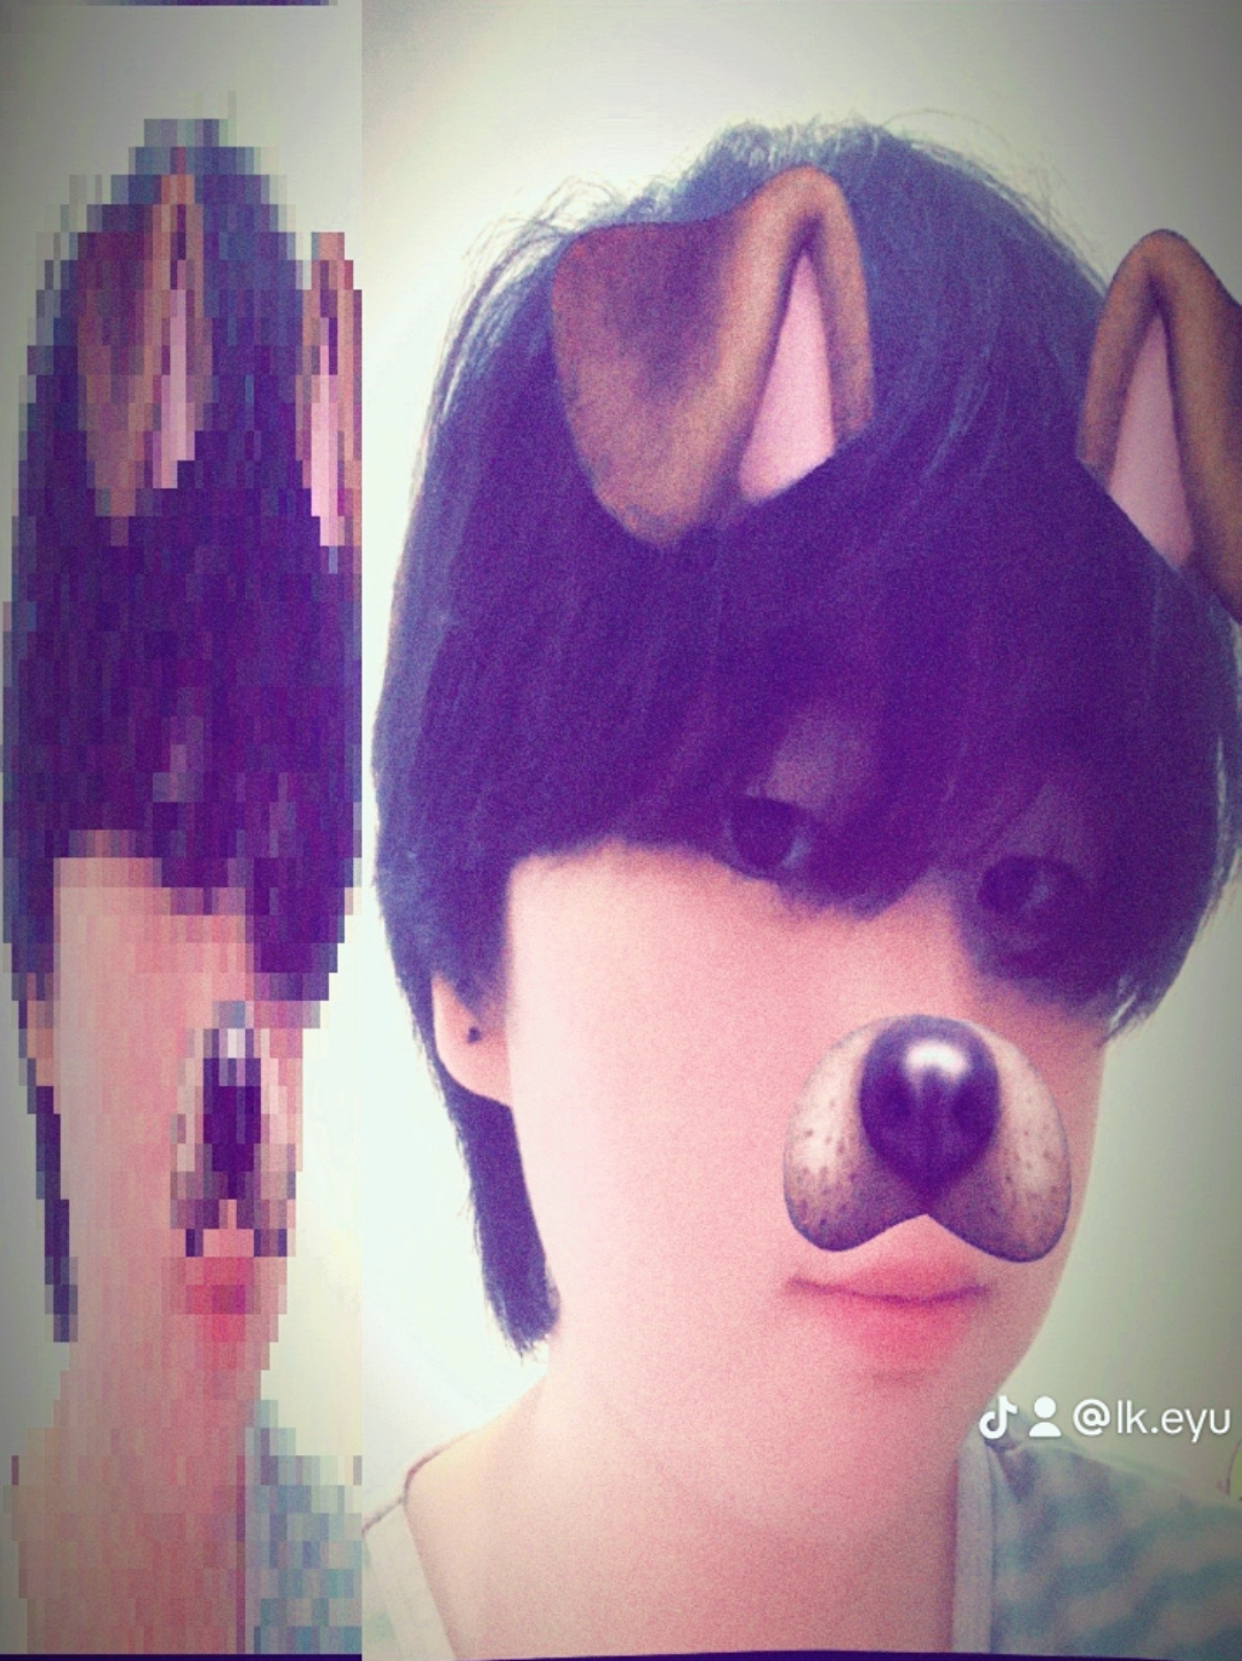
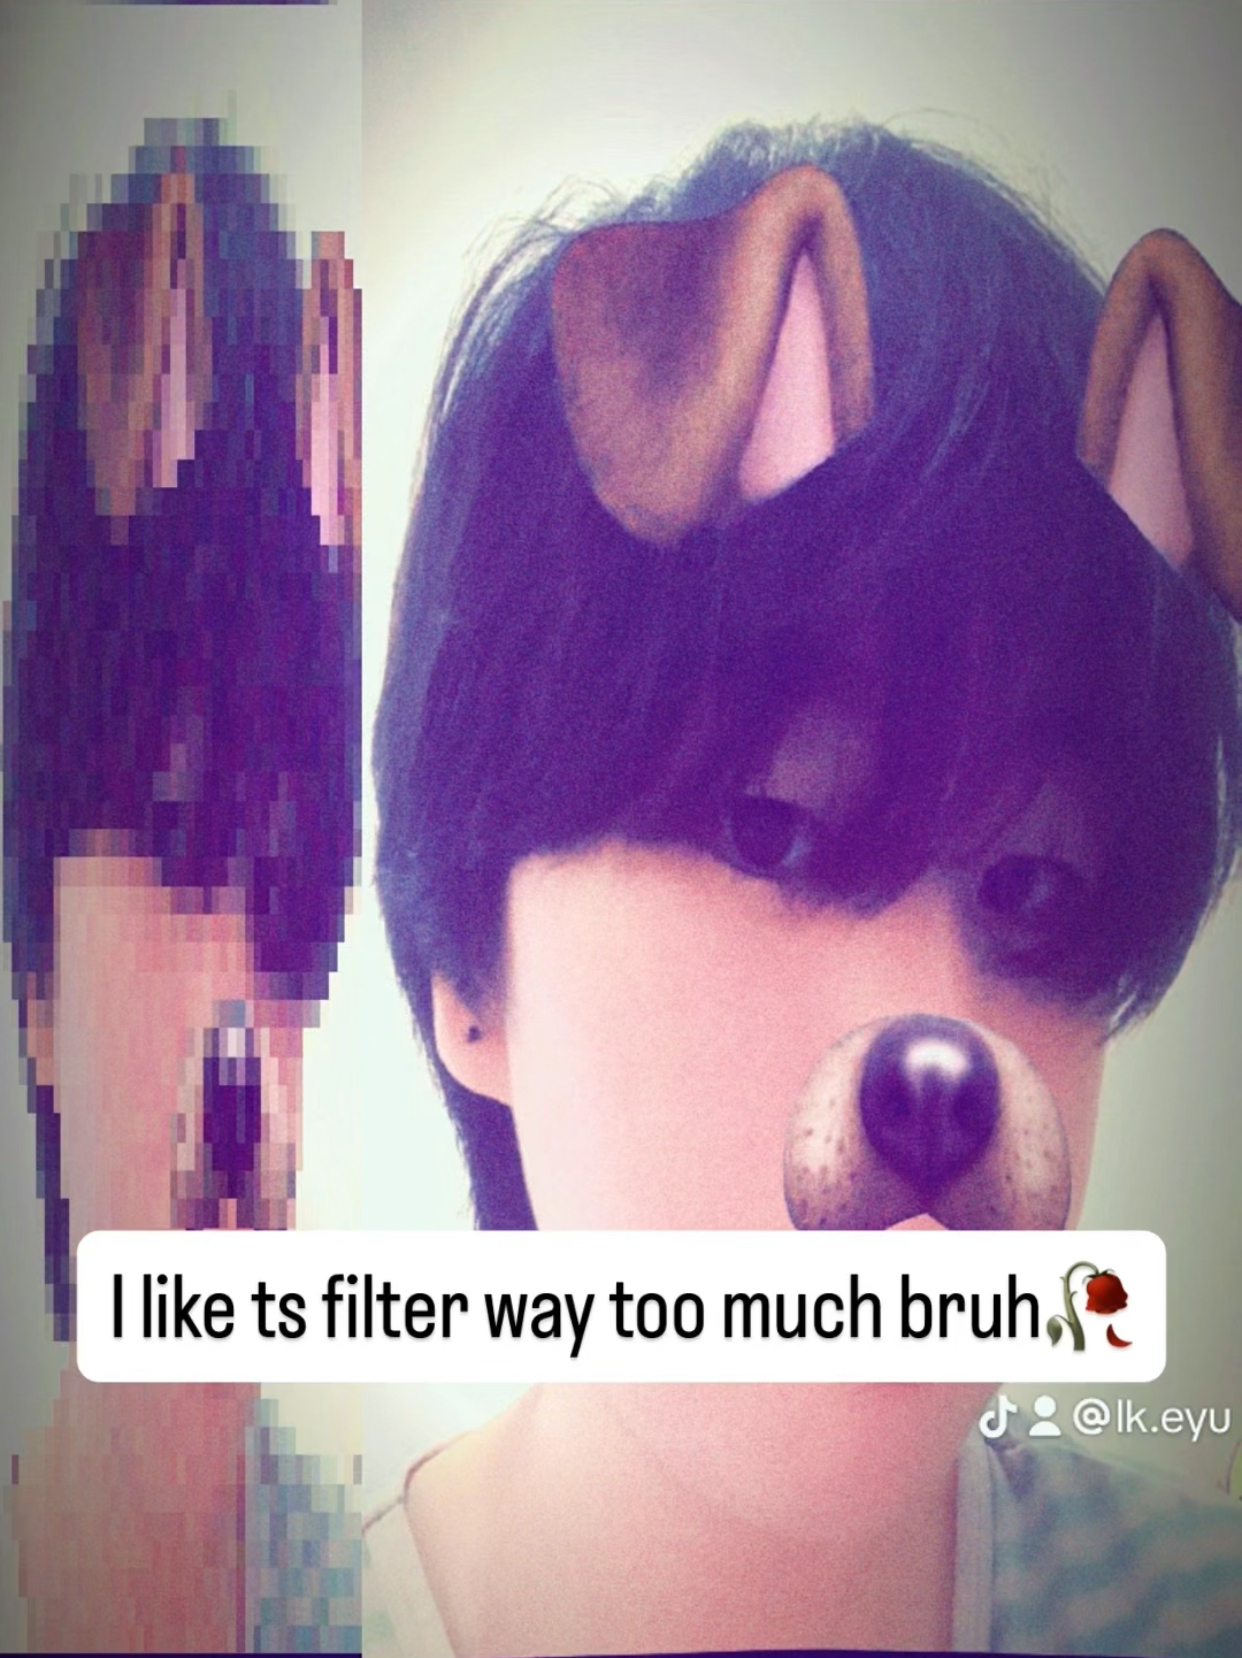
added a ton of stuff

Changed region(s): [[0.0612, 0.7382, 0.9791, 0.8613], [0.3977, 0.9843, 0.9179, 1.0], [0.0, 0.9843, 0.2754, 1.0]]

diff --git a/index.html b/index.html
@@ -70,7 +70,13 @@
                     <a href="https://scratch.mit.edu/projects/1085492602/" target="_blank">
                         <img src="img/endless-runner.png" alt="endless runner (scratch 2024)" class="project-img">
                     </a>
-                    <span class="tooltiptext">endless runner (2024)</span>
+                    <span class="tooltiptext">endless runner (2024, completed)</span>
+                </div>
+                <div class="tooltip">
+                    <a href="https://keyulvl666.github.io/coin-game/" target="_blank">
+                        <img src="img/coin-game.png" alt="coin game (github 2026)" class="project-img">
+                    </a>
+                    <span class="tooltiptext">coin game (2026, completed)</span>
                 </div>
             </div>
         </section>

diff --git a/css/main.css b/css/main.css
@@ -97,13 +97,13 @@ html{
     text-align: center;
     font-family: verdana, sans-serif;
     font-size: 0.8rem;
-    margin-bottom: 60px;
     margin-top: 10px;
 }
 
 .gallery {
+    margin-top: 60px;
     display: flex;
-    justify-content: space-around;
+    justify-content: center;
     flex-wrap: wrap;
 }
 
